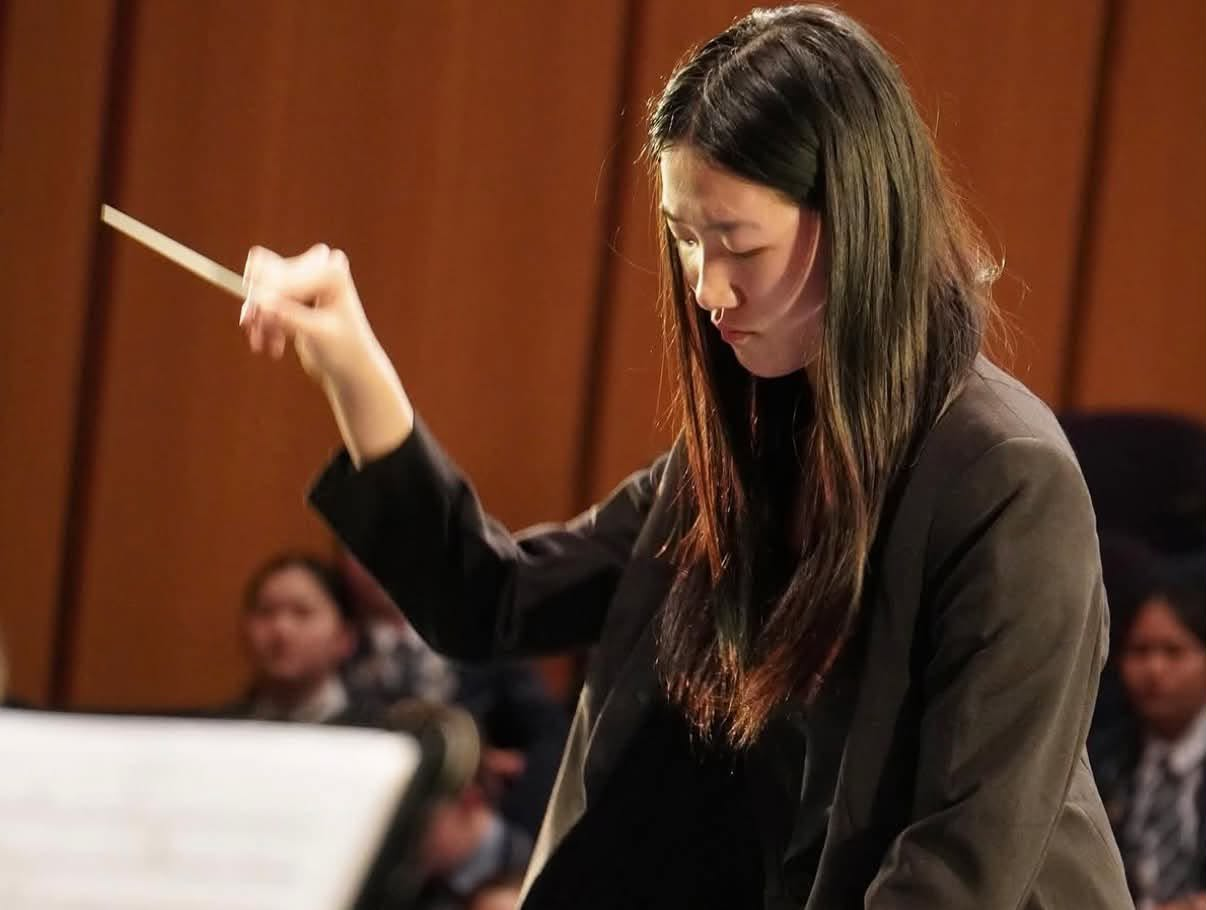
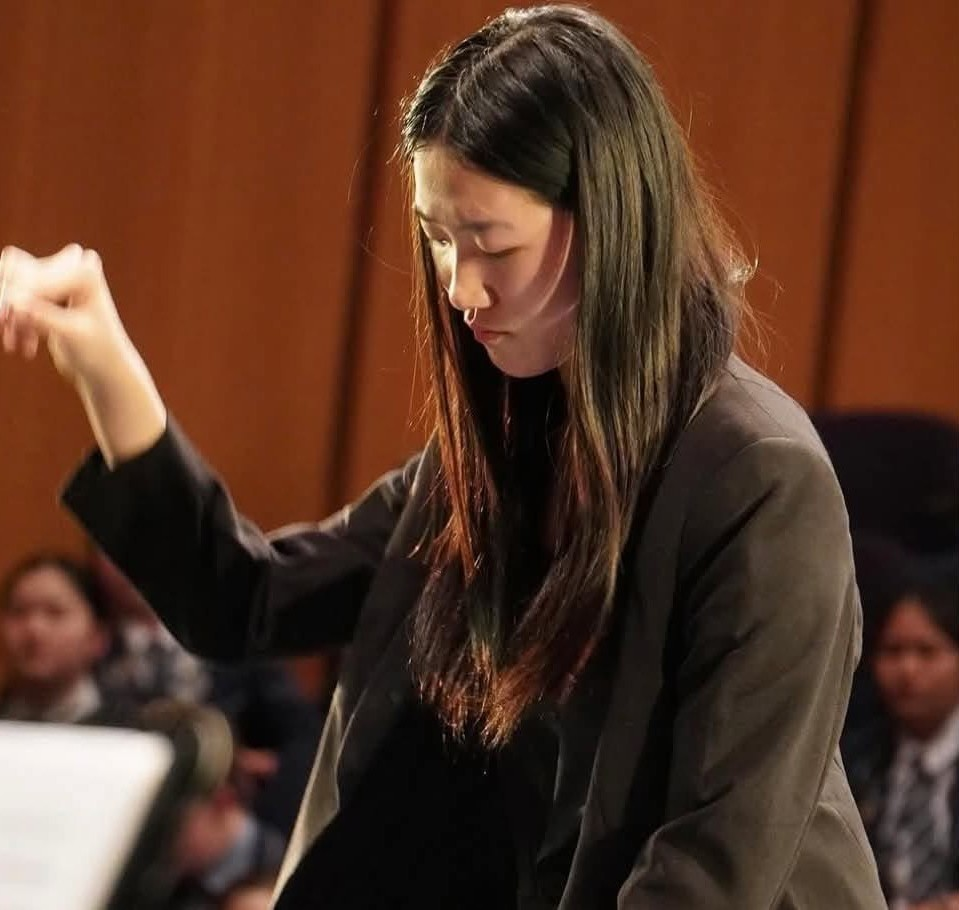
M1: Teacher cards come from data. Site now escapes by default

diff --git a/src/teachers.html b/src/teachers.html
@@ -26,100 +26,31 @@ description: "Meet the Kreutzer teachers — performers and dedicated educators 
 
     <div class="teacher-grid reveal-stagger">
 
-      <div class="teacher-card-container reveal" tabindex="0" role="button" aria-pressed="false" aria-label="Phoebe Mu — show biography">
-        <div class="teacher-card-inner">
-          <div class="teacher-card-front">
-            <div class="teacher-image">
-              <img src="assets/phoebe mu cropped.jpg" alt="Phoebe Mu">
+      {% for teacher in teachers %}
+        <div class="teacher-card-container reveal" tabindex="0" role="button" aria-pressed="false" aria-label="{{ teacher.name }} - show biography">
+          <div class="teacher-card-inner">
+            <div class="teacher-card-front">
+              <div class="teacher-image">
+                <img src="{{ teacher.image }}" alt="{{ teacher.name }}">
+              </div>
+              <div class="teacher-front-overlay">
+                <span class="teacher-role">{{ teacher.instruments }}</span>
+                <h3>{{ teacher.name}}</h3>
+                <span class="teacher-hint">{{ teacher.title }}{% if teacher.title %} · {% endif %}View bio ⟳</span>
+              </div>
             </div>
-            <div class="teacher-front-overlay">
-              <span class="teacher-role">Piano, Cello &amp; Theory</span>
-              <h3>Phoebe Mu</h3>
-              <span class="teacher-hint">Founder · View bio ⟳</span>
-            </div>
-          </div>
-          <div class="teacher-card-back">
-            <div class="teacher-info">
-              <h3>Phoebe Mu</h3>
-              <p>Phoebe provides high-quality, one-on-one piano and theory tuition, guiding students from their very first lesson through to AMEB diploma level.</p>
-              <h4>Qualifications</h4>
-              <p>LTCL &amp; LMusA — Licentiate diplomas in Piano Performance (Trinity College London &amp; AMEB)</p>
-              <a href="phoebe.html" class="btn">Full profile</a>
-            </div>
-          </div>
-        </div>
-      </div>
-
-      <div class="teacher-card-container reveal" tabindex="0" role="button" aria-pressed="false" aria-label="Harmoniche Deng — show biography">
-        <div class="teacher-card-inner">
-          <div class="teacher-card-front">
-            <div class="teacher-image">
-              <img src="assets/Harmoniche Deng.jpg" alt="Harmoniche Deng">
-            </div>
-            <div class="teacher-front-overlay">
-              <span class="teacher-role">Piano</span>
-              <h3>Harmoniche Deng</h3>
-              <span class="teacher-hint">View bio ⟳</span>
-            </div>
-          </div>
-          <div class="teacher-card-back">
-            <div class="teacher-info">
-              <h3>Harmoniche Deng</h3>
-              <p>Harmoniche teaches one-on-one piano. Originally from Perth, he studied with Luciano Trebse and is now studying medicine at the Australian National University.</p>
-              <h4>Qualifications</h4>
-              <p>AMEB Grade 8 Piano</p>
-              <a href="harmoniche.html" class="btn">Full profile</a>
+            <div class="teacher-card-back">
+              <div class="teacher-info">
+                <h3>{{ teacher.name }}</h3>
+                <p>{{ teacher.bio }}</p>
+                <h4>Qualifications</h4>
+                <p>{{ teacher.qualifications }}</p>
+                <a href="{{ teacher.profile }}" class="btn">Full profile</a>
+              </div>
             </div>
           </div>
         </div>
-      </div>
-
-      <div class="teacher-card-container reveal" tabindex="0" role="button" aria-pressed="false" aria-label="Angel Zheng — show biography">
-        <div class="teacher-card-inner">
-          <div class="teacher-card-front">
-            <div class="teacher-image">
-              <img src="assets/Angel Zheng.jpg" alt="Angel Zheng" crop-right>
-            </div>
-            <div class="teacher-front-overlay">
-              <span class="teacher-role">Flute, Piano &amp; Voice</span>
-              <h3>Angel Zheng</h3>
-              <span class="teacher-hint">View bio ⟳</span>
-            </div>
-          </div>
-          <div class="teacher-card-back">
-            <div class="teacher-info">
-              <h3>Angel Zheng</h3>
-              <p>Angel teaches one-on-one flute, piano and voice. A pianist, flautist and chorister, she is studying Political Science and Music, majoring in Piano Performance, at the Australian National University.</p>
-              <h4>Qualifications</h4>
-              <p>ATCL diploma in Flute</p>
-              <a href="angel.html" class="btn">Full profile</a>
-            </div>
-          </div>
-        </div>
-      </div>
-
-      <!-- TODO(content): Tyler Nguyen — add instrument(s), bio, qualifications and a photo (swap the monogram for an <img> like Phoebe's) -->
-      <div class="teacher-card-container reveal" tabindex="0" role="button" aria-pressed="false" aria-label="Tyler Nguyen — show biography">
-        <div class="teacher-card-inner">
-          <div class="teacher-card-front">
-            <div class="teacher-image" monogram aria-hidden="true">TN</div>
-            <div class="teacher-front-overlay">
-              <span class="teacher-role">Instrument TBC</span>
-              <h3>Tyler Nguyen</h3>
-              <span class="teacher-hint">View bio ⟳</span>
-            </div>
-          </div>
-          <div class="teacher-card-back">
-            <div class="teacher-info">
-              <h3>Tyler Nguyen</h3>
-              <p>Biography coming soon.</p>
-              <h4>Qualifications</h4>
-              <p>Coming soon.</p>
-              <a href="contact.html" class="btn">Book a free trial</a>
-            </div>
-          </div>
-        </div>
-      </div>
+      {% endfor %}
 
     </div>
   </div>

diff --git a/src/_includes/instruments-list.html b/src/_includes/instruments-list.html
@@ -3,12 +3,12 @@
   Pass `linked: true` to make each tile link to the lessons page (the homepage does);
   on the lessons page itself the tiles are plain blocks.
 {% endcomment %}
-{% if linked %}{% assign tag = "a" %}{% assign href = ' href="lessons.html"' %}{% else %}{% assign tag = "div" %}{% assign href = "" %}{% endif %}
+{% if linked %}{% assign tag = "a" %}{% else %}{% assign tag = "div" %}{% endif %}
 <ul class="instruments-grid reveal-stagger" role="list">
-  <li class="reveal" style="background-image: url('assets/piano.jpg');"><{{ tag }}{{ href }}><small>Keyboard</small><p>Piano</p><span>From any age</span></{{ tag }}></li>
-  <li class="reveal" style="background-image: url('assets/violin.jpg');"><{{ tag }}{{ href }}><small>Strings</small><p>Violin</p><span>From ages 5+</span></{{ tag }}></li>
-  <li class="reveal" style="background-image: url('assets/cello.jpg');"><{{ tag }}{{ href }}><small>Strings</small><p>Cello</p><span>From ages 6+</span></{{ tag }}></li>
-  <li class="reveal" style="background-image: url('assets/flute.jpg');"><{{ tag }}{{ href }}><small>Woodwind</small><p>Flute</p><span>From ages 7+</span></{{ tag }}></li>
-  <li class="reveal" style="background-image: url('assets/voice.jpg');"><{{ tag }}{{ href }}><small>Voice</small><p>Singing</p><span>From any age</span></{{ tag }}></li>
-  <li class="reveal" style="background-image: url('assets/trebble.jpg');"><{{ tag }}{{ href }}><small>Musicianship</small><p>Theory</p><span>From any age</span></{{ tag }}></li>
+  <li class="reveal" style="background-image: url('assets/piano.jpg');"><{{ tag }}{% if linked %} href="lessons.html"{% endif %}><small>Keyboard</small><p>Piano</p><span>From any age</span></{{ tag }}></li>
+  <li class="reveal" style="background-image: url('assets/violin.jpg');"><{{ tag }}{% if linked %} href="lessons.html"{% endif %}><small>Strings</small><p>Violin</p><span>From ages 5+</span></{{ tag }}></li>
+  <li class="reveal" style="background-image: url('assets/cello.jpg');"><{{ tag }}{% if linked %} href="lessons.html"{% endif %}><small>Strings</small><p>Cello</p><span>From ages 6+</span></{{ tag }}></li>
+  <li class="reveal" style="background-image: url('assets/flute.jpg');"><{{ tag }}{% if linked %} href="lessons.html"{% endif %}><small>Woodwind</small><p>Flute</p><span>From ages 7+</span></{{ tag }}></li>
+  <li class="reveal" style="background-image: url('assets/voice.jpg');"><{{ tag }}{% if linked %} href="lessons.html"{% endif %}><small>Voice</small><p>Singing</p><span>From any age</span></{{ tag }}></li>
+  <li class="reveal" style="background-image: url('assets/trebble.jpg');"><{{ tag }}{% if linked %} href="lessons.html"{% endif %}><small>Musicianship</small><p>Theory</p><span>From any age</span></{{ tag }}></li>
 </ul>

diff --git a/src/css/teachers.css b/src/css/teachers.css
@@ -65,22 +65,8 @@ html:not(.js) .teacher-card-container:focus-within .teacher-card-inner {
   object-position: top;
   transition: scale var(--t-slow) var(--ease);
 }
-.teacher-image img[crop-right] { object-position: 75% center; }
 .teacher-card-container:hover .teacher-image img { scale: 1.04; }
 
-/* Monogram placeholder for teachers without a portrait yet */
-.teacher-image[monogram] {
-  display: grid;
-  place-items: center;
-  background:
-    radial-gradient(ellipse at 50% 30%, rgba(var(--gold-rgb), 0.16), transparent 60%),
-    linear-gradient(170deg, var(--bg-blue-deep), var(--bg-card));
-  font-family: var(--font-display);
-  font-style: italic;
-  font-size: 5rem;
-  color: var(--gold-light);
-  padding-bottom: 4rem;
-}
 
 .teacher-front-overlay {
   position: absolute;

diff --git a/.eleventy.js b/.eleventy.js
@@ -8,6 +8,10 @@ module.exports = function (eleventyConfig) {
   eleventyConfig.addPassthroughCopy("src/assets");
   eleventyConfig.addPassthroughCopy("src/index.js");
 
+  eleventyConfig.setLiquidOptions({
+    outputEscape: "escape"
+  });
+
   // Developer docs co-located with the CSS — keep them in the repo, not the built site
   eleventyConfig.ignores.add("src/css/README.md");
 
@@ -26,6 +30,6 @@ module.exports = function (eleventyConfig) {
   return {
     dir: { input: "src", output: "_site", includes: "_includes" },
     htmlTemplateEngine: "liquid",
-    markdownTemplateEngine: "liquid",
+    markdownTemplateEngine: "liquid"
   };
 };

diff --git a/src/teachers/angel.html b/src/teachers/angel.html
@@ -12,7 +12,7 @@ description: "Meet Angel Zheng — flute, piano and voice teacher at Kreutzer, a
 <section>
   <div class="split">
     <figure class="frame portrait reveal reveal--left">
-      <img src="assets/Angel Zheng.jpg" alt="Angel Zheng conducting" crop-right>
+      <img src="assets/Angel Zheng.jpg" alt="Angel Zheng conducting">
     </figure>
     <div class="reveal reveal--right">
       <p class="eyebrow">Biography</p>

diff --git a/src/_includes/base.html b/src/_includes/base.html
@@ -22,7 +22,7 @@
     {% if loader %}{% include "loader.html" %}{% endif %}
     {% include "header.html" %}
     <main id="main">
-      {{ content }}
+      {{ content | raw}}
     </main>
     {% include "footer.html" %}
     <script src="index.js" defer></script>

diff --git a/src/css/README.md b/src/css/README.md
@@ -49,7 +49,7 @@ Component-based with pragmatic grouping:
 | `instruments.css` | `section[instruments]` + `.instruments-grid`. |
 | `testimonials.css` | `section[testimonials]` quote/reference cards. **Kept on purpose while no page uses it** — testimonials will be added back once real ones are collected. Don't delete. |
 | `pricing.css` | `section[pricing]` + `.pricing-grid` + `.featured`. |
-| `teachers.css` | `.teacher-grid` flip cards, photo + `[monogram]` placeholder fronts, `img[crop-right]` card crop, no-JS hover flip. |
+| `teachers.css` | `.teacher-grid` flip cards, photo, no-JS hover flip. |
 | `terms.css` | `.policy-layout` (sticky contents rail + numbered clauses), `.policy-list`, `.table-container`/`table`, `.tagline`, `.disclaimer`. |
 | `features.css` | Shared blocks: `.split` (+ `.reverse`, `.top`), `.frame` (+ `.portrait`, `img[crop-right]`), `.pillars`, `.card-grid`/`.card`/`.card-mark`, `.badge`, `.checklist`, `.pull-quote`, `.signature`, `.timeline`, `.info-list`, `.notice`. |
 | `faq.css` | `.faq-layout` and `<details class="faq-item">` accordions (no JS needed). |

diff --git a/CLAUDE.md b/CLAUDE.md
@@ -131,10 +131,8 @@ Keep new code the same way so it can't throw on pages without those nodes.
   inside a section are `<h3>` (then `<h4>`). Page-wide `p` rules in `sections.css` exclude
   `.eyebrow` with `:where(:not(.eyebrow))`, which keeps their specificity unchanged.
 - The markup uses **custom-element-like tags** (`<nav-logo-main>`) and **attributes**
-  (`<section intro>`, `<img desktop>`, `<img mobile>`, `<img crop-right>`, `[scroll-cue]`)
+  (`<section intro>`, `<img desktop>`, `<img mobile>`, `[scroll-cue]`)
   purely as CSS styling hooks. They are not real components or JS — just selectors.
-  `crop-right` shifts a landscape photo's crop rightwards inside a portrait frame or
-  teacher card (used for Angel's photo).
 - `_includes/pricing.html` (package cards) and `_includes/price-table.html` (full fee
   table) both hold the prices — the package cards are on `lessons.html`, the fee table on
   `terms.html` — so update both together.
